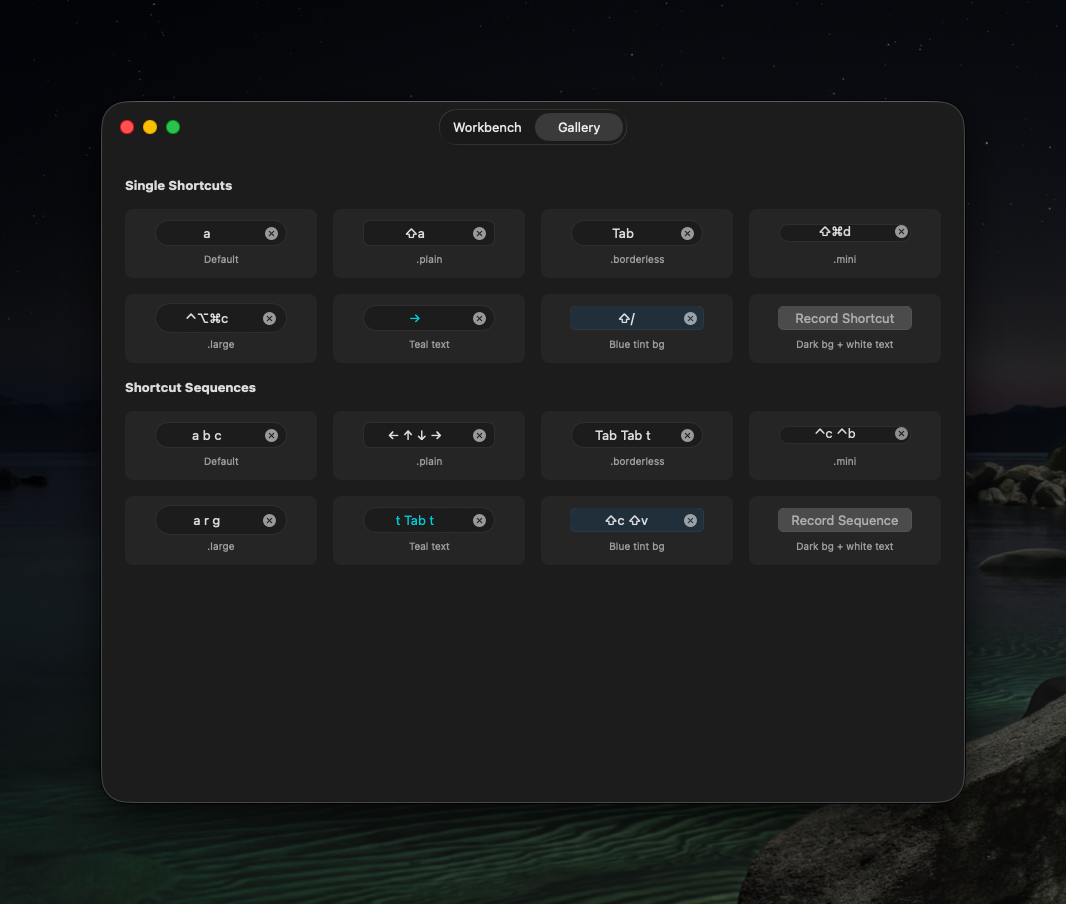
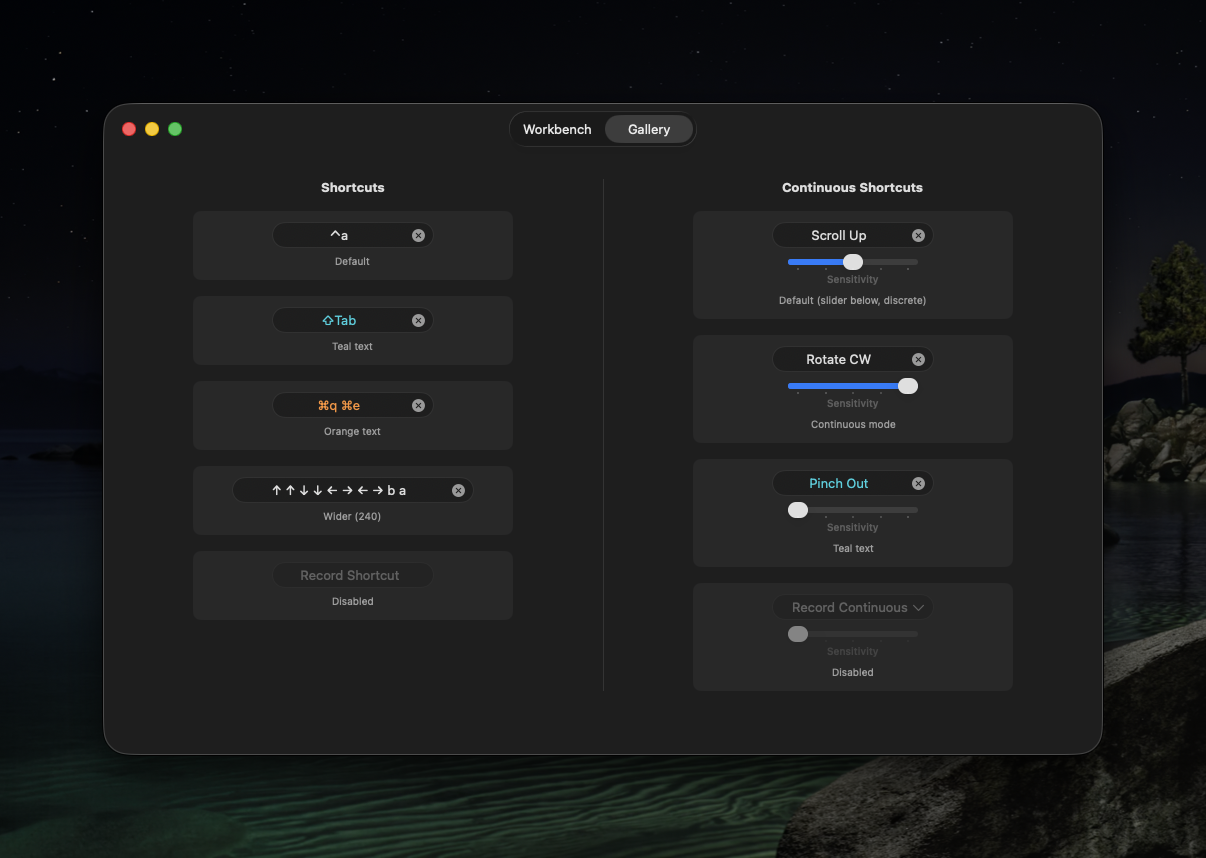
chore: update screenshot, minor doc fixes

diff --git a/README.md b/README.md
@@ -21,8 +21,7 @@ Special keys like Tab that SwiftUI's focus system normally intercepts work in bo
 - Match against `NSEvent` and SwiftUI `KeyPress`, including special keys like Tab and Escape
 - SwiftUI views and AppKit controls
 - `Codable`, `Equatable`, `Hashable`, `Sendable` model
-- Three visual styles: rounded, plain, borderless
-- Custom text and background colors
+- Customizable placeholder text, text color, and minimum width
 
 ## Requirements
 
@@ -54,7 +53,6 @@ struct SettingsView: View {
     var body: some View {
         ShortcutRecorderView($shortcut)
             .placeholder("Record Shortcut")
-            .style(.rounded)
     }
 }
 ```
@@ -72,7 +70,6 @@ struct ZoomSettingsView: View {
     var body: some View {
         ContinuousShortcutRecorderView($zoomShortcut)
             .placeholder("Record Zoom")
-            .style(.rounded)
     }
 }
 ```
@@ -90,7 +87,7 @@ field.onShortcutChange = { shortcut in
 }
 
 let continuousField = ContinuousShortcutRecorderField()
-continuousField.onContinuousShortcutChange = { shortcut in
+continuousField.onShortcutChange = { shortcut in
     print("Recorded: \(shortcut?.displayString ?? "none")")
 }
 ```
@@ -149,25 +146,15 @@ let zoom = ContinuousShortcut(kind: .pinchIn, modifiers: .command, sensitivity: 
 print(zoom.displayString) // "⌘Pinch In"
 ```
 
-### Styles
-
-```swift
-ShortcutRecorderView($shortcut).style(.rounded)    // Default
-ShortcutRecorderView($shortcut).style(.plain)       // Minimal border
-ShortcutRecorderView($shortcut).style(.borderless)  // No border
-```
-
-The same `ShortcutRecorderStyle` enum applies to `ContinuousShortcutRecorderView`.
-
-### Colors
+### Customization
 
 ```swift
 ShortcutRecorderView($shortcut)
     .textColor(.systemTeal)
-    .fieldBackgroundColor(NSColor.systemBlue.withAlphaComponent(0.1))
+    .minimumWidth(180)
 ```
 
-Setting a background color uses a layer-backed background because `NSSearchFieldCell` does not render `NSTextField.backgroundColor`.
+The same modifiers apply to `ContinuousShortcutRecorderView`.
 
 ### Sensitivity (ContinuousShortcut only)
 
@@ -245,9 +232,8 @@ SwiftUI recorder for fire-once shortcuts.
 |---|---|
 | `.placeholder(_:)` | Text when empty (default: "Record Shortcut") |
 | `.recordingPlaceholder(_:)` | Text during recording (default: "Record shortcut…") |
-| `.style(_:)` | `.rounded`, `.plain`, or `.borderless` |
 | `.textColor(_:)` | Text color (`NSColor`) |
-| `.fieldBackgroundColor(_:)` | Background color (`NSColor`); uses a layer because `NSSearchFieldCell` ignores `backgroundColor` |
+| `.minimumWidth(_:)` | Minimum intrinsic width in points (default 130). SwiftUI's `.frame(width:)` still wins. |
 
 ### `ContinuousShortcutRecorderView`
 
@@ -257,9 +243,8 @@ SwiftUI recorder for sensitivity-bearing continuous shortcuts.
 |---|---|
 | `.placeholder(_:)` | Text when empty (default: "Record Continuous") |
 | `.recordingPlaceholder(_:)` | Text during recording (default: "Scroll / pinch / rotate…") |
-| `.style(_:)` | `.rounded`, `.plain`, or `.borderless` |
 | `.textColor(_:)` | Text color (`NSColor`) |
-| `.fieldBackgroundColor(_:)` | Background color (`NSColor`) |
+| `.minimumWidth(_:)` | Minimum intrinsic width in points. SwiftUI's `.frame(width:)` still wins. |
 | `.sensitivityMode(_:)` | `.discrete` (default) or `.continuous` |
 | `.sensitivityPosition(_:)` | `.below` (default), `.left`, or `.right` — placement of the sensitivity slider |
 

diff --git a/CLAUDE.md b/CLAUDE.md
@@ -32,7 +32,6 @@ ShortcutField is a Swift package providing in-app shortcut recording for macOS a
 - `ContinuousShortcutRecorderView.swift` — SwiftUI recorder with sensitivity slider for `ContinuousShortcut`.
 - `ContinuousShortcutRecorderField.swift` — AppKit recorder for `ContinuousShortcut`.
 - `ContinuousShortcutRecorderField+Menu.swift` — chevron menu picker for continuous kinds (scroll / pinch / rotate).
-- `ShortcutRecorderStyle.swift` — `.rounded`, `.plain`, `.borderless` styles (used by both recorders).
 - `OnShortcutModifier.swift` — `.onShortcut()` fire-once dispatcher; `ShortcutMatcher`, `ShortcutEventDispatcher`, `ShortcutTracking`.
 - `OnContinuousShortcutModifier.swift` — `.onContinuousShortcut()` throttled-continuous dispatcher.
 - `ThrottleState.swift` — Internal: shared throttle state for `OnContinuousShortcutModifier`.
